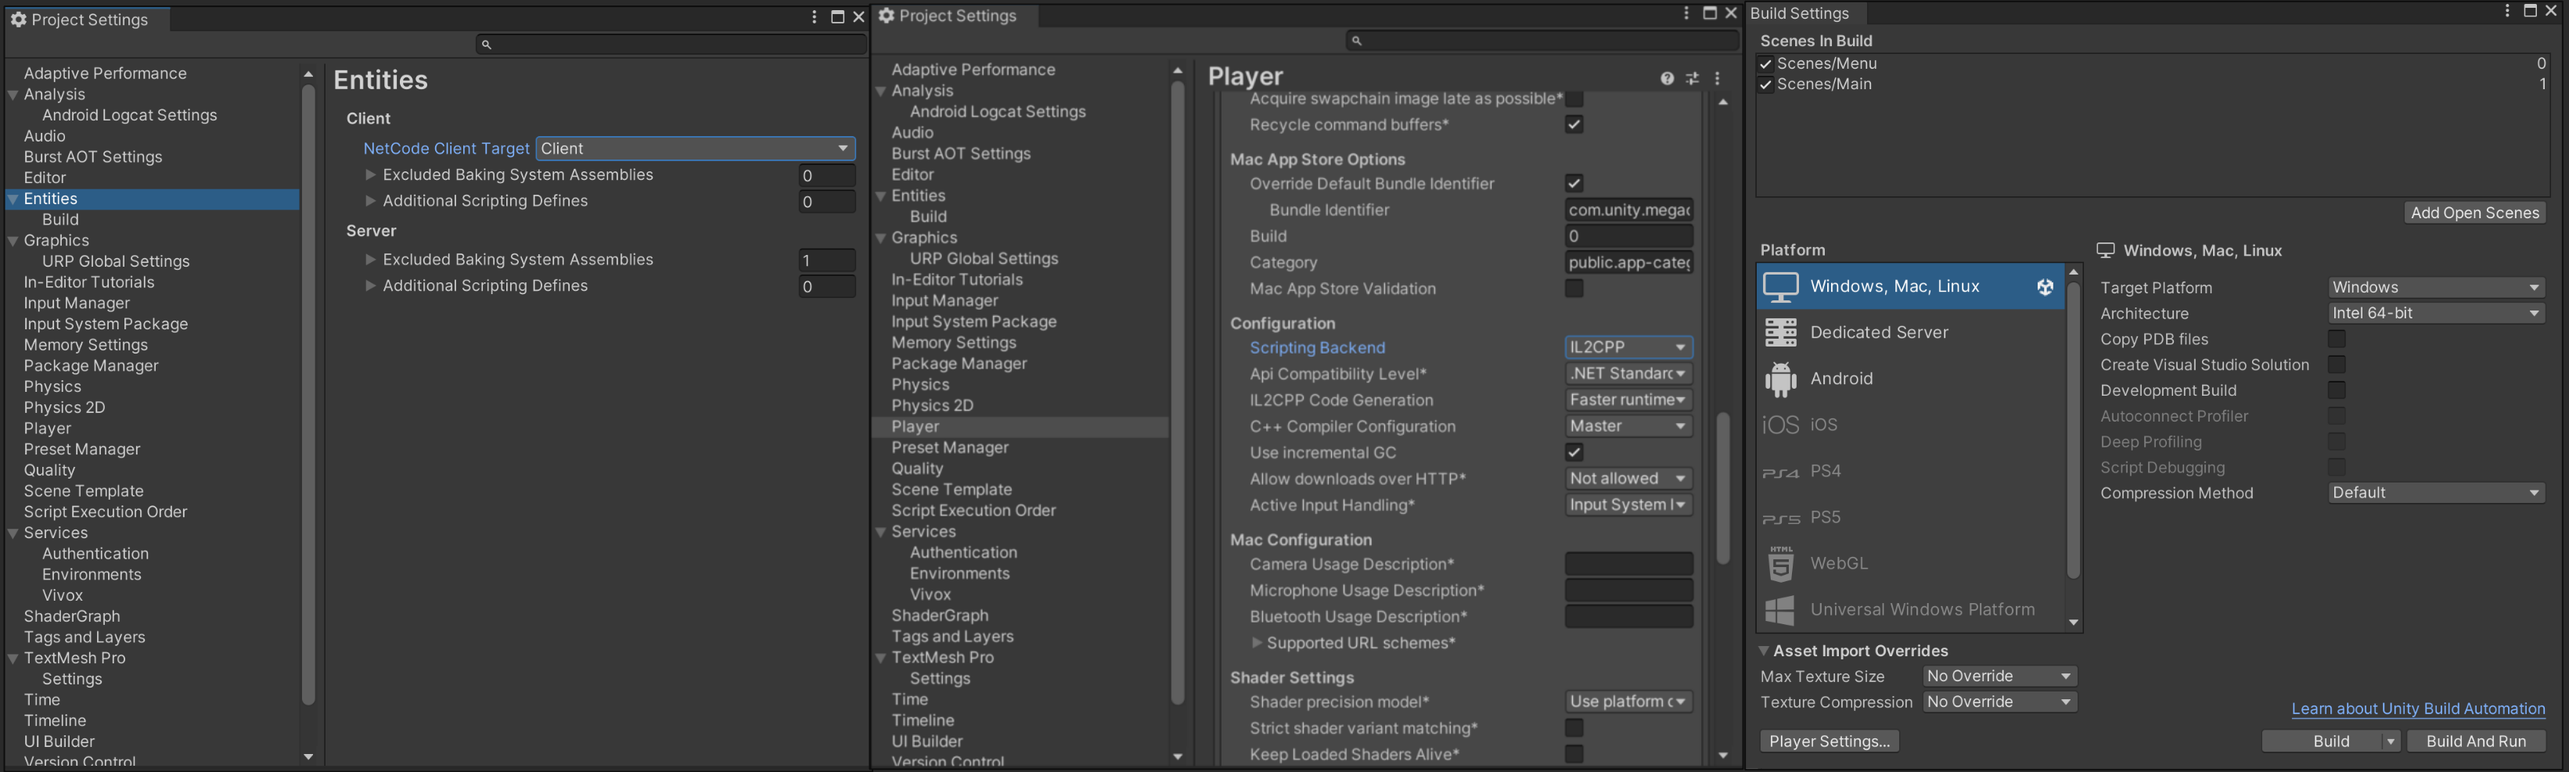
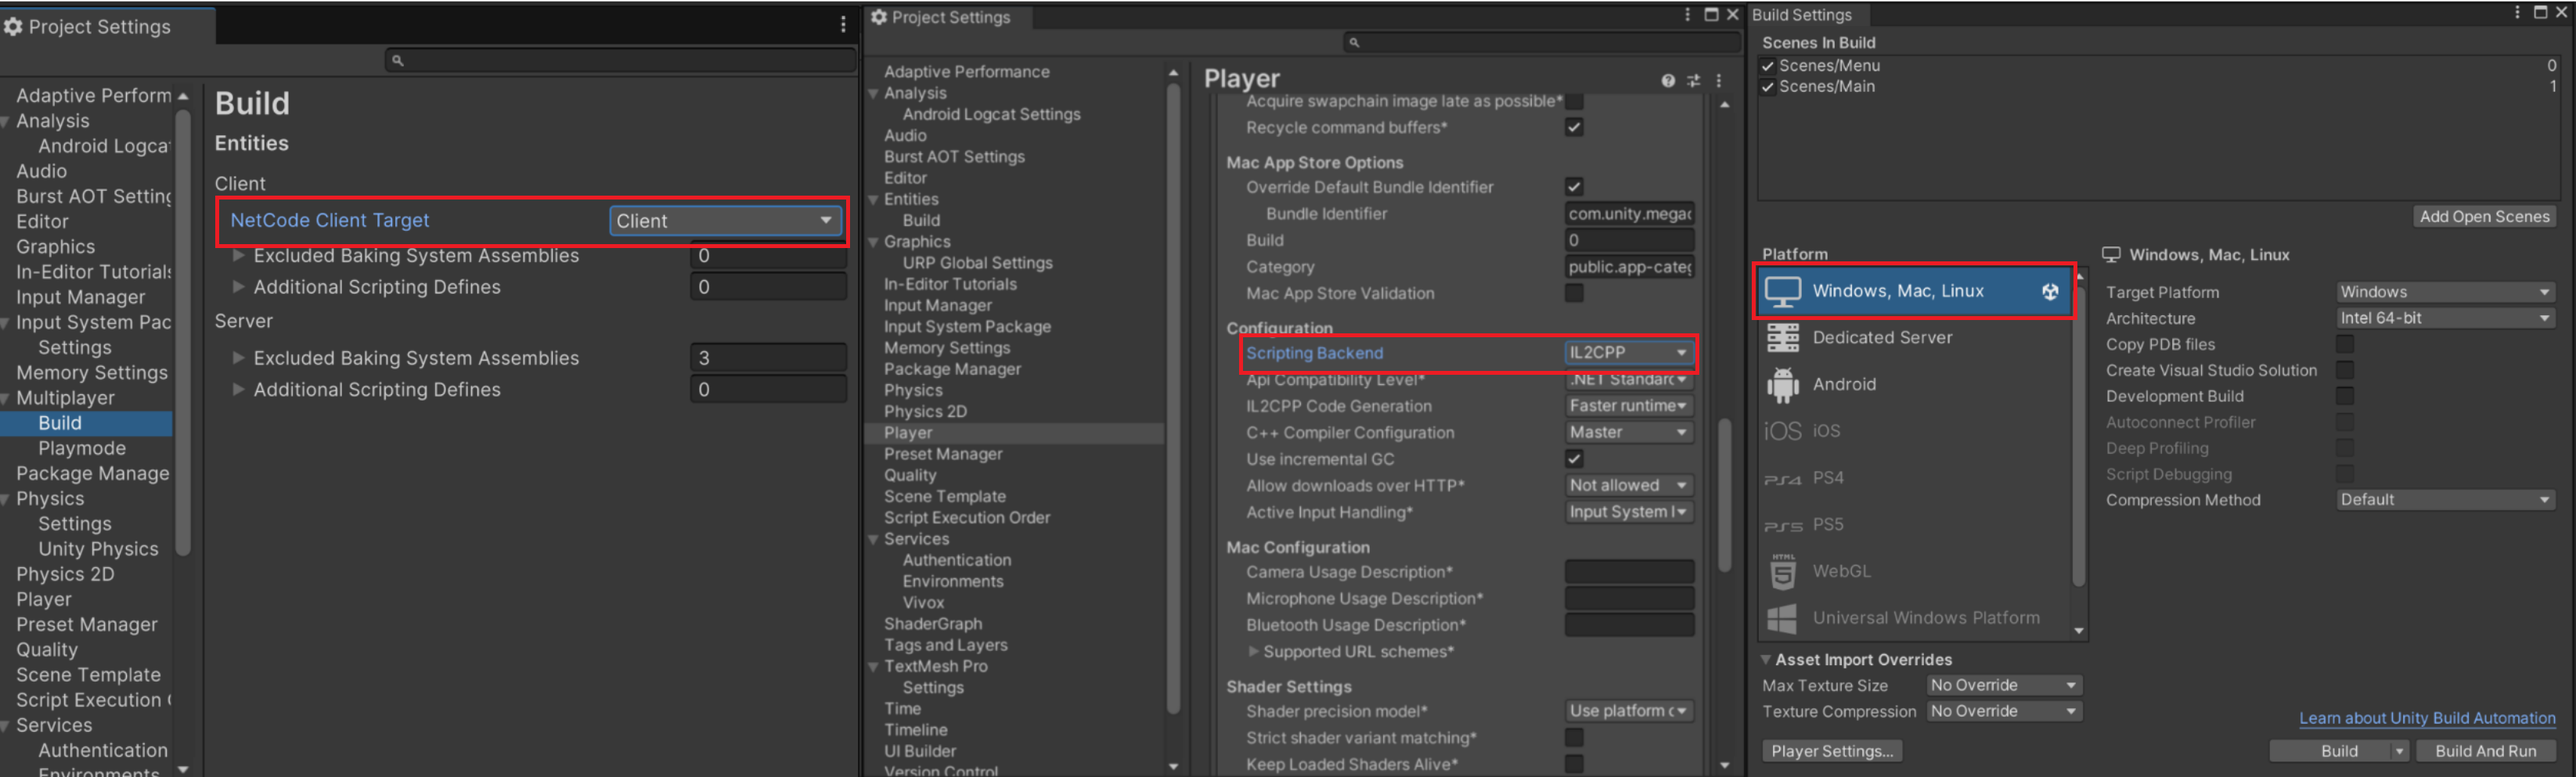
Patch fixes (#21)

diff --git a/Documentation/multiplayer-setup.md b/Documentation/multiplayer-setup.md
@@ -15,7 +15,7 @@ For testing purposes, you can run the Client and Server in the Editor. This enab
 To set up the Editor for local multiplayer:
 1. Go to **Project Settings** > **Multiplayer** > **Build**. 
 2. Set the **NetCode Client Target** to `ClientAndServer`.
-3. Open Multiplayer PlayMode Tools from **Multiplayer** > **Window: PlayMode Tools**. 
+3. Open Multiplayer PlayMode Tools through, **Window** > **Multiplayer** > **PlayMode Tools**.
 4. Set the **PlayMode Type** to `Client & Server`.
 
 In the **Assets > Resources > MultiplayerServerSettings**, you have the ability to configure a server list that will be presented in the play mode Main Menu window. This functionality allows for the establishment of multiple connections and facilitates the use of the Default IP connection.
@@ -41,7 +41,7 @@ Now, when you play the game from the Editor, the Server and Client run together 
 To build your game and test it locally, you need to build the Client and Server separately.
 
 To make a Windows or Mac Client Build:
-1. In the Editor, go to **Project Settings** > **Entities** to change the **NetCode Client Target** to `Client`.
+1. In the Editor, go to **Project Settings** > **Multiplayer** > **Entities** to change the **NetCode Client Target** to `Client`.
 2. Go to **Project Settings** > **Player** and change **Scripting BackEnd** to `iL2CPP`.
 3. Like any other Unity game, make the build by going to **File** > **Build Settings**.
 4. Enable the `Main` and `Menu` scenes and set the target platform to `Windows, Mac, Linux`.
@@ -50,7 +50,7 @@ To make a Windows or Mac Client Build:
 ![Build Settings - Client-Windows](./Images/build-settings-client-windows.png)
 
 To make a Android Client Build: 
-1. In the Editor, go to **Project Settings** > **Entities** to change the **NetCode Client Target** to `Client`.
+1. In the Editor, go to **Project Settings** > **Multiplayer** > **Entities** to change the **NetCode Client Target** to `Client`.
 2. Go to **Project Settings** > **Player** and select the tab with Android icon change **Scripting BackEnd** to `iL2CPP`.
 3. In the same window and in the **Target Architectures** check **ARM64** box.
 3. Like any other Unity game, make the build by going to **File** > **Build Settings**.
@@ -60,7 +60,7 @@ To make a Android Client Build:
 ![Build Settings - Client-Android](./Images/build-settings-client-android.png)
 
 To make an iOS Build: 
-1. In the Editor, go to **Project Settings** > **Entities** to change the **NetCode Client Target** to `Client`.
+1. In the Editor, go to **Project Settings** >**Multiplayer**> **Entities** to change the **NetCode Client Target** to `Client`.
 2. Like any other Unity game, make the build by going to **File** > **Build Settings**.
 3. Press the **Build & Run** button to generate the Xcode project.
 
